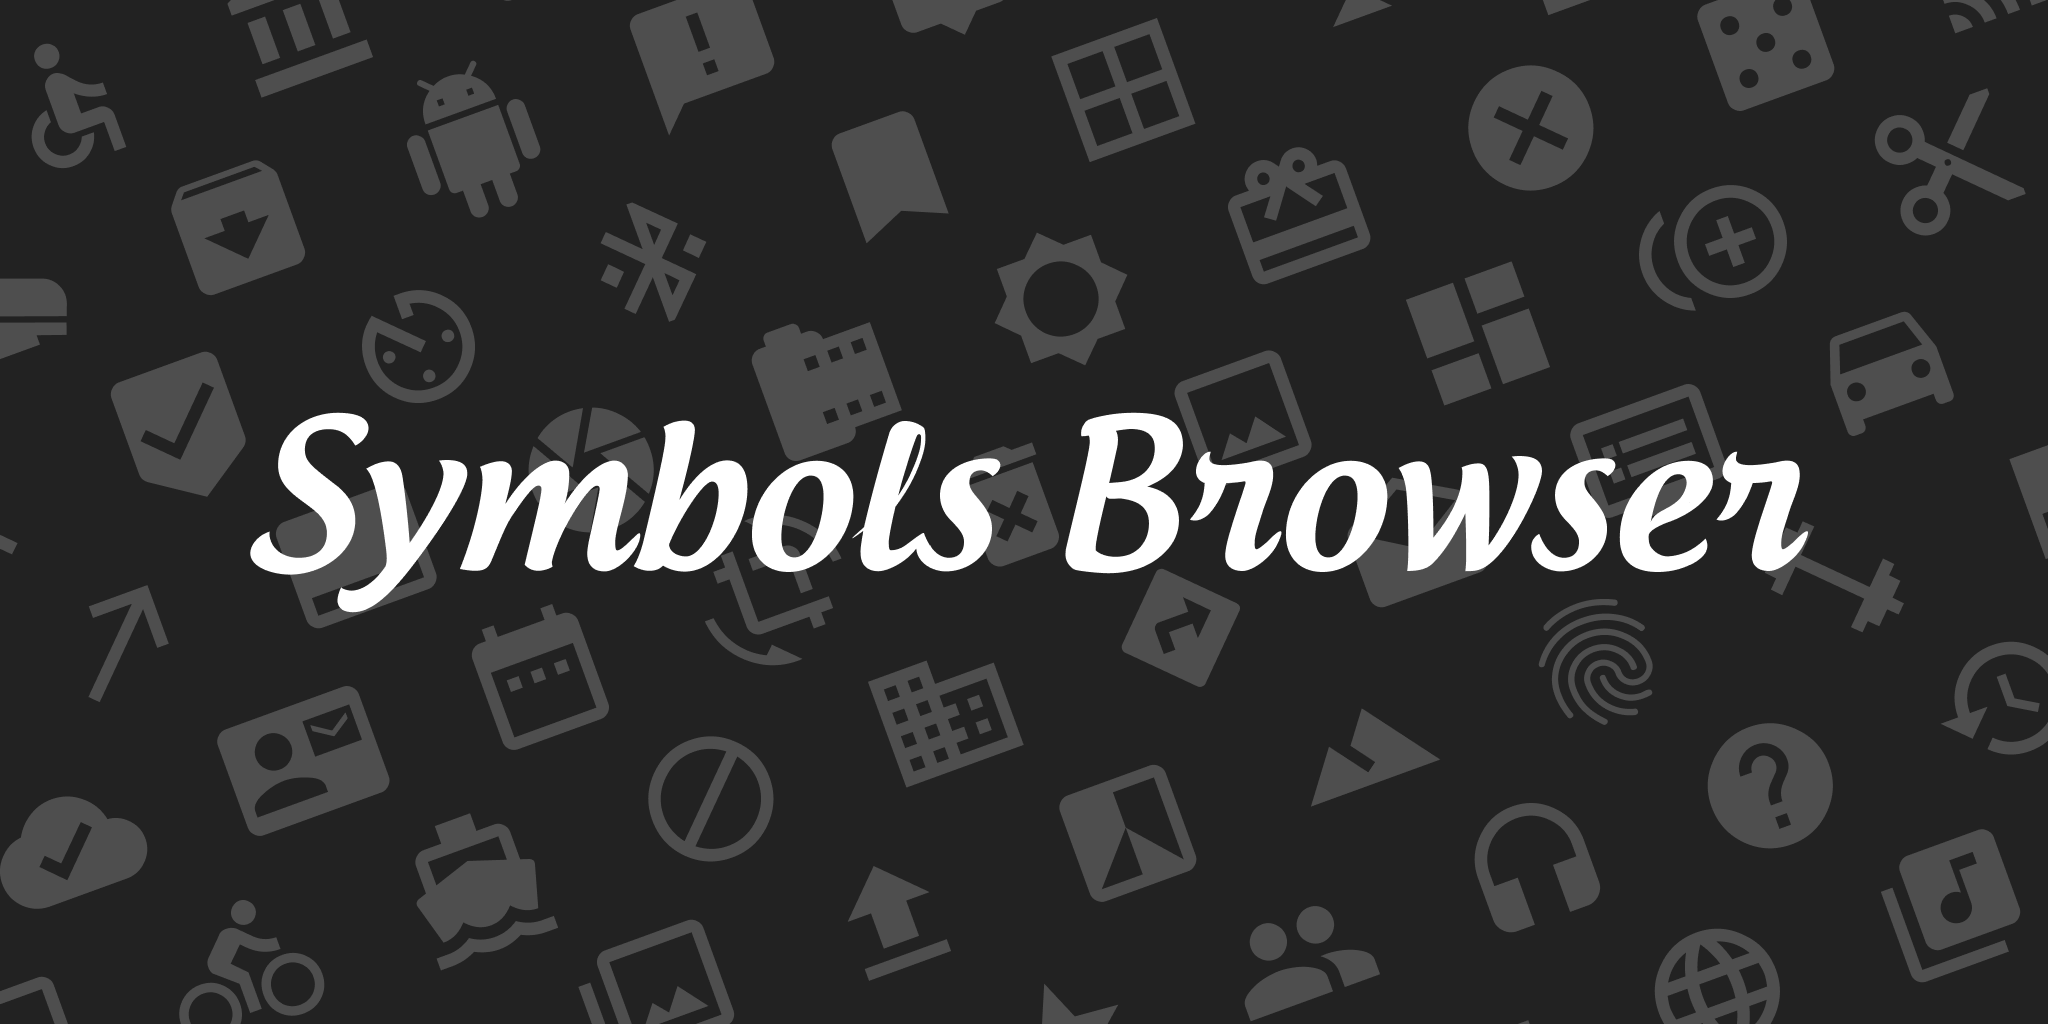
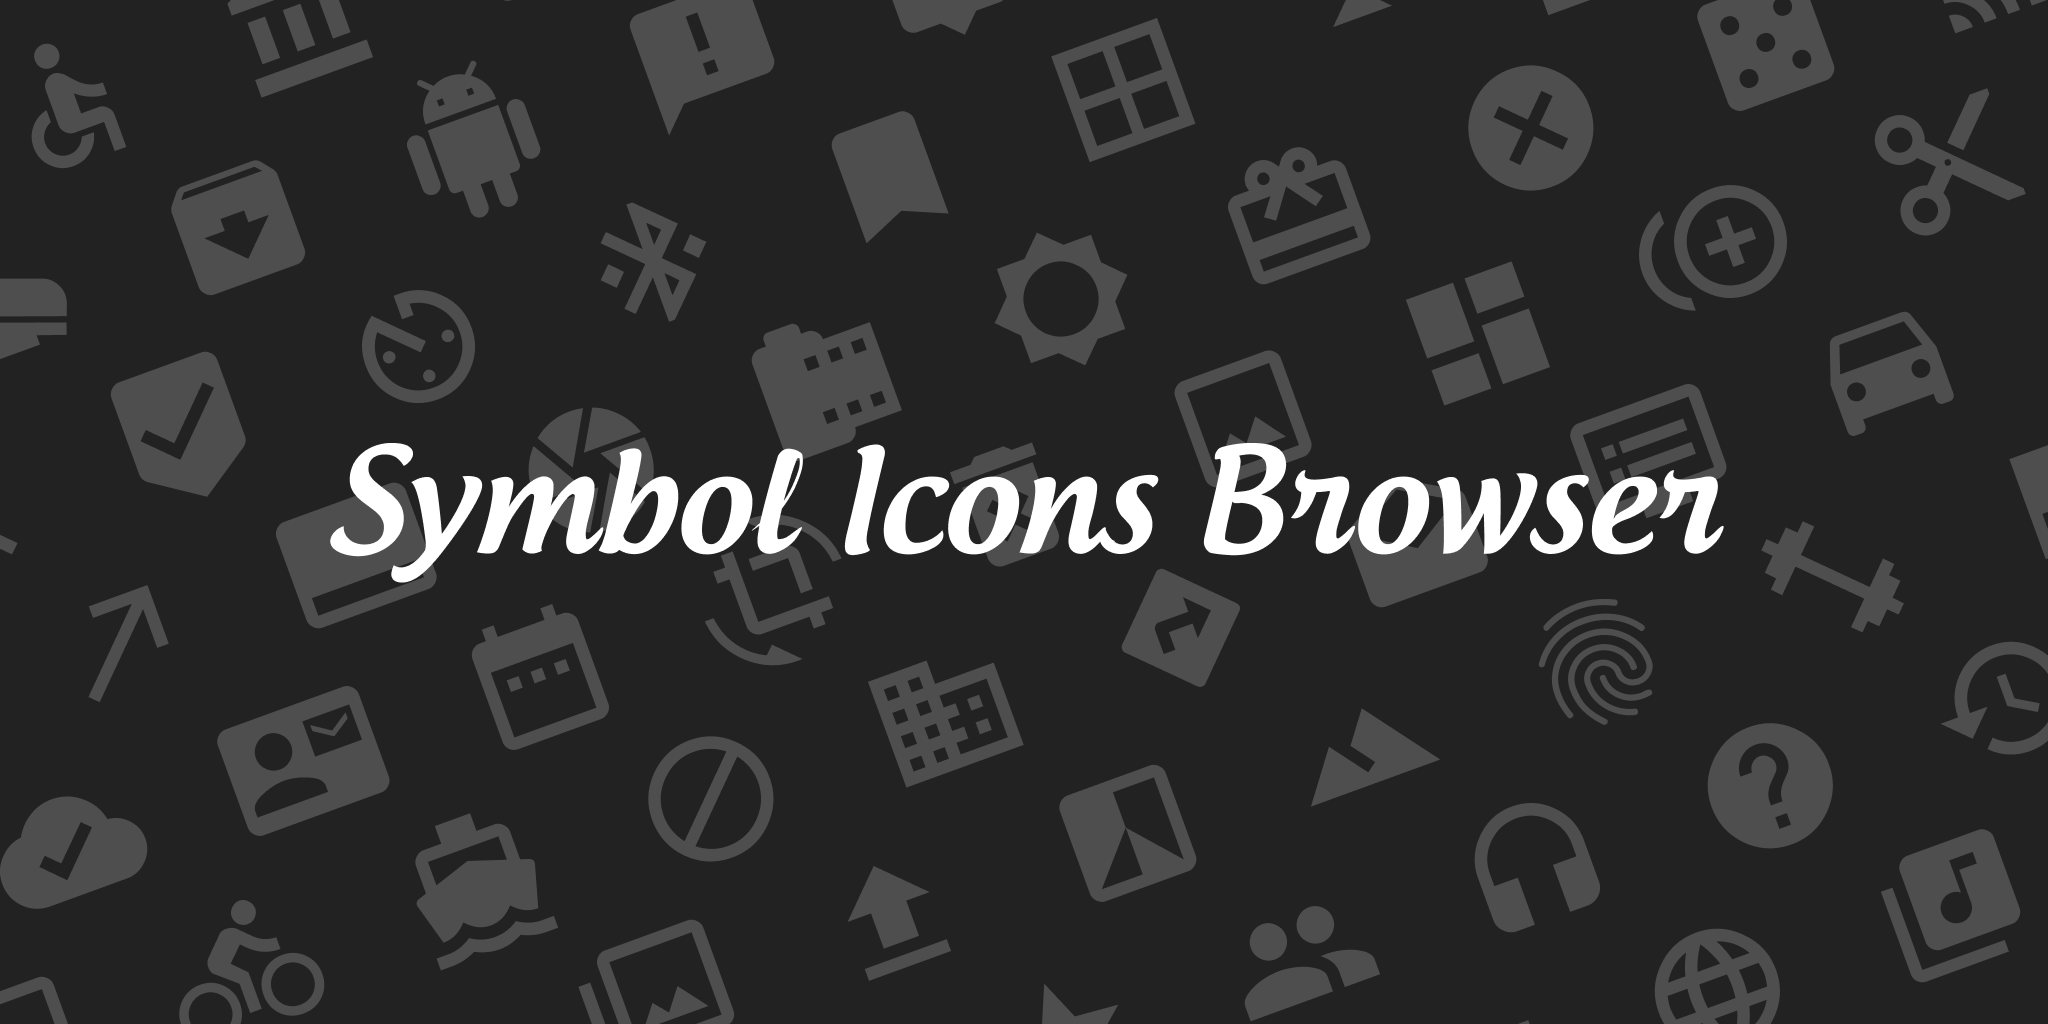
Update name

Changed region(s): [[0.125, 0.4062, 0.875, 0.5938]]

diff --git a/README.md b/README.md
@@ -1,6 +1,6 @@
-![Symbols Browser](assets/artwork.png)
+![Symbol Icons Browser](assets/artwork.png)
 
-Symbols Browser makes it easy to browse and copy symbols from SF Symbols & Material Icons font.
+Symbol Icons Browser makes it easy to browse and copy symbols from SF Symbols & Material Icons font.
 
 To use this plugin, Please install San Francisco font and Material Icons font (.ttf).
 
